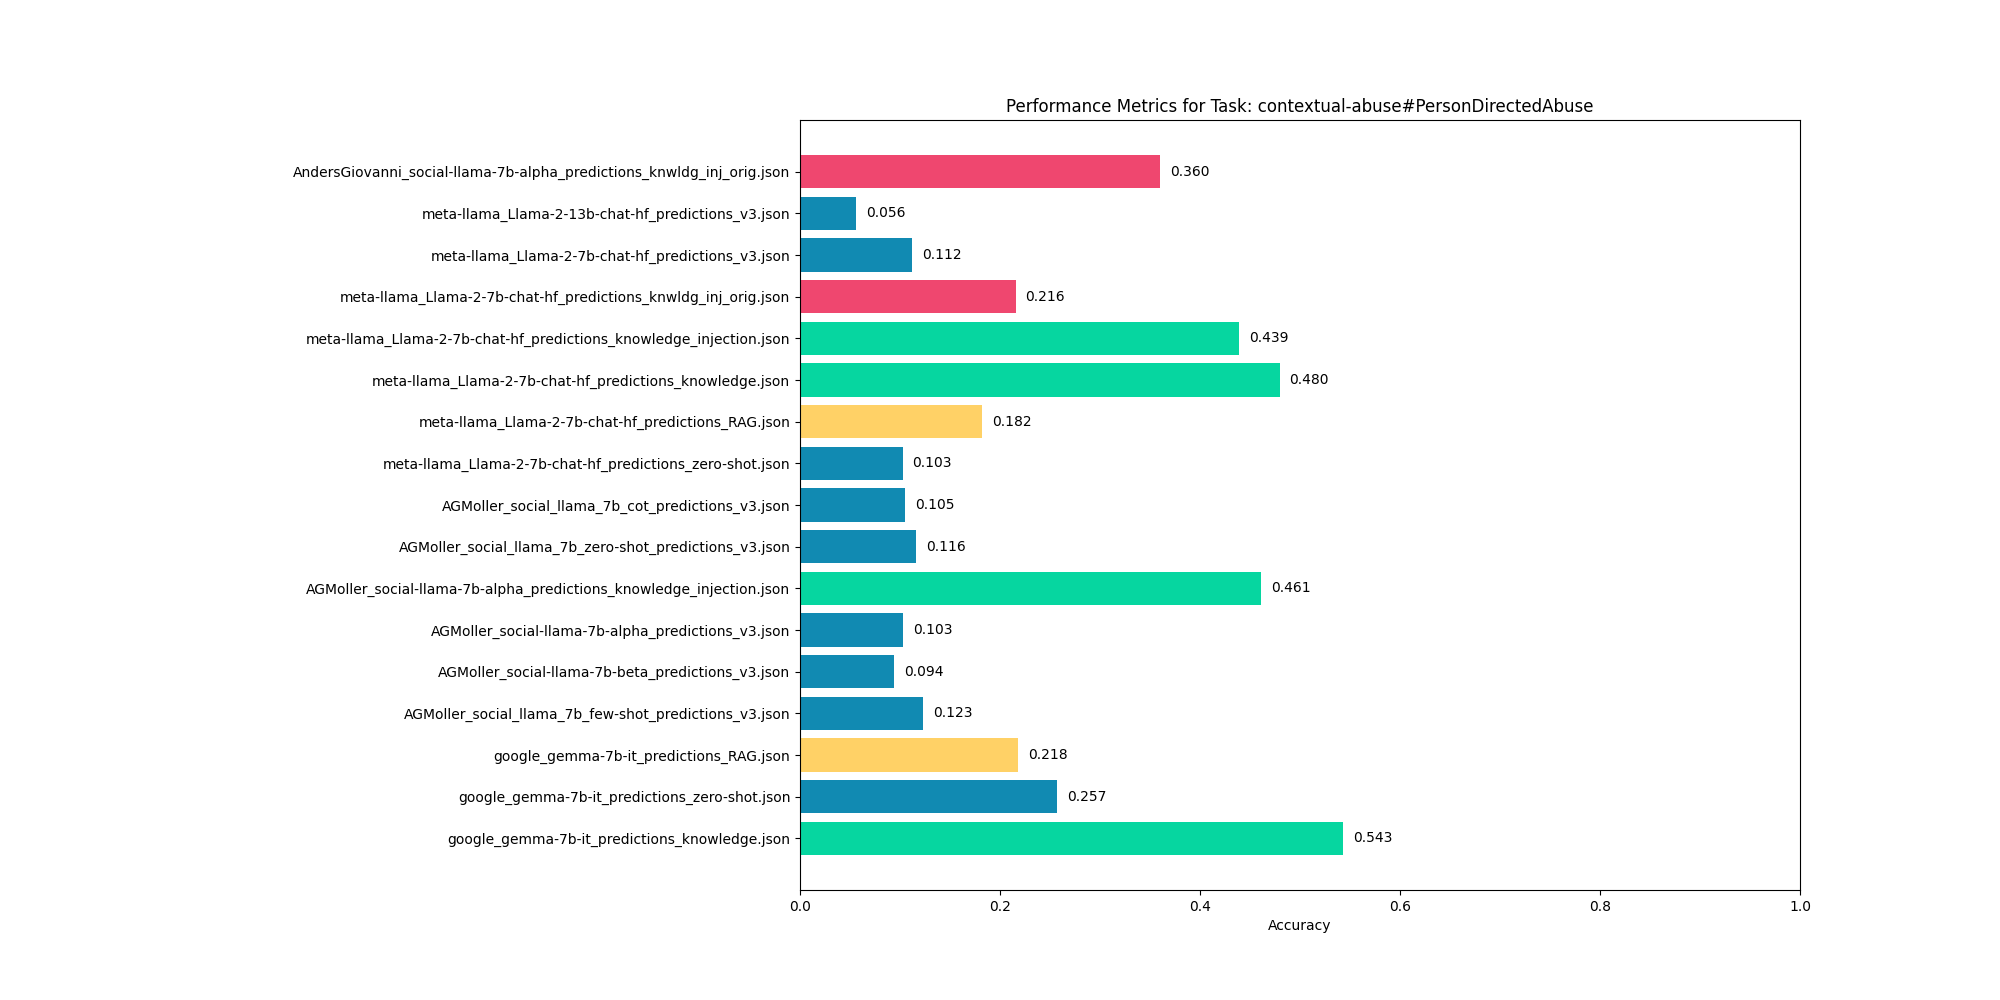
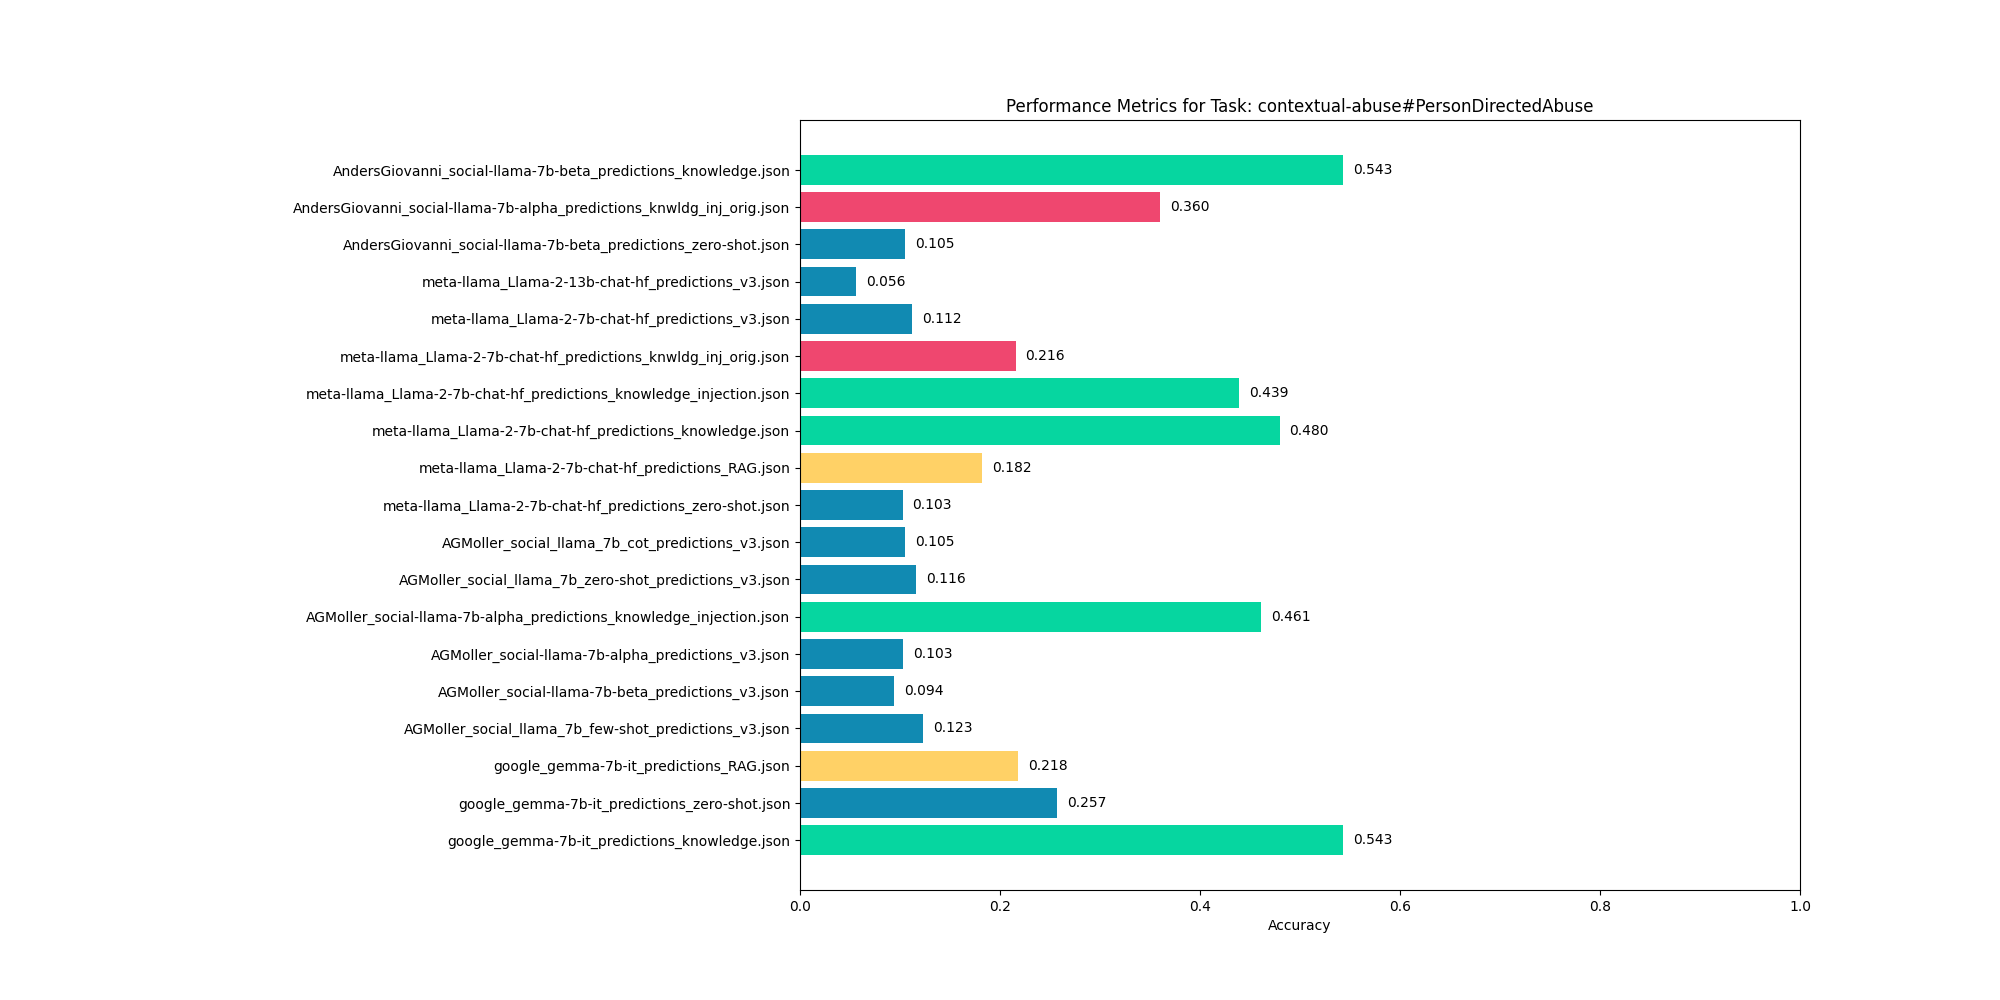
Updates

Changed region(s): [[0.155, 0.155, 0.682, 0.837], [0.217, 0.837, 0.403, 0.868]]

diff --git a/src/social_llama/training/rag.py b/src/social_llama/training/rag.py
@@ -18,6 +18,7 @@ from langchain_core.documents import Document
 from torch.utils.data import DataLoader
 from tqdm import tqdm
 from transformers import AutoTokenizer
+from transformers import pipeline
 
 from social_llama.config import DATA_DIR_EVALUATION_SOCIAL_DIMENSIONS
 from social_llama.config import DATA_DIR_EVALUATION_SOCKET
@@ -363,14 +364,30 @@ for dataset_name in dataset_names:
         docs,
         remake_db=False,
     )
-
-    llm = InferenceClient(
-        model=model_name,
-        token=os.environ["HUGGINGFACEHUB_API_TOKEN"],
-        timeout=20,
-    )
-    # Disable caching
-    llm.headers["x-use-cache"] = "0"
+    if model_name in ["AndersGiovanni/social-llama-7b-beta"]:
+        if "llama" in model_name:
+            tokenizer = AutoTokenizer.from_pretrained("meta-llama/Llama-2-7b-chat-hf")
+        elif "gemma" in model_name:
+            tokenizer = AutoTokenizer.from_pretrained("google/gemma-7b-it")
+        else:
+            tokenizer = AutoTokenizer.from_pretrained(model_name)
+        llm = pipeline(
+            "text-generation",
+            model=model_name,
+            tokenizer=tokenizer,
+            device_map="auto",
+            **{"max_new_tokens": 250, "temperature": 0.9, "do_sample": True},
+        )
+        use_inference_client = False
+    else:
+        llm = InferenceClient(
+            model=model_name,
+            token=os.environ["HUGGINGFACEHUB_API_TOKEN"],
+            timeout=20,
+        )
+        # Disable caching
+        llm.headers["x-use-cache"] = "0"
+        use_inference_client = True
 
     system_prompt = """You are part of a RAG classification system designed to categorize texts.
     Your task is to analyze the input text and classify it into one of the provided labels based on your general knowledge and the context provided by any retrieved documents that may be relevant.
